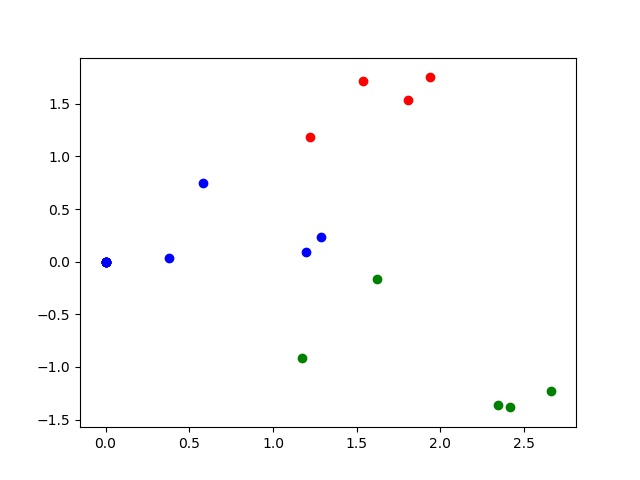
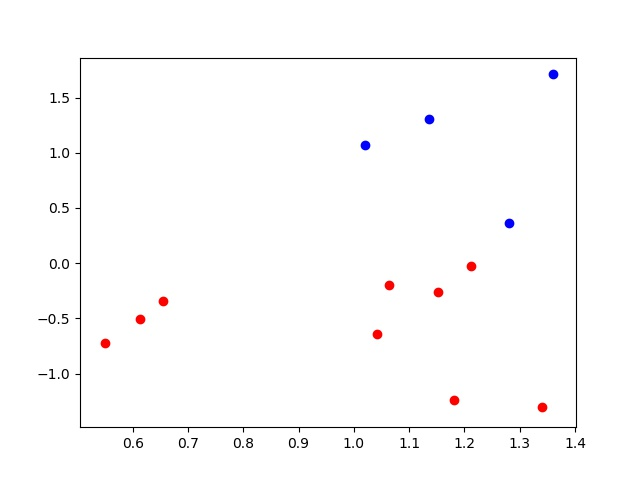
Finally Completed

diff --git a/pycoders/templates/data_analysis/user_cluster_third.html b/pycoders/templates/data_analysis/user_cluster_third.html
@@ -2,31 +2,85 @@
 {% load static %}
 <html>
 <head>
-	<title></title>
-	<link rel="stylesheet" href="https://stackpath.bootstrapcdn.com/bootstrap/4.3.1/css/bootstrap.min.css" integrity="sha384-ggOyR0iXCbMQv3Xipma34MD+dH/1fQ784/j6cY/iJTQUOhcWr7x9JvoRxT2MZw1T" crossorigin="anonymous">
-	<link rel="stylesheet" type="text/css" href="{% static 'css/mycss.css' %}">
+  <title></title>
+  <link rel="stylesheet" href="https://stackpath.bootstrapcdn.com/bootstrap/4.3.1/css/bootstrap.min.css" integrity="sha384-ggOyR0iXCbMQv3Xipma34MD+dH/1fQ784/j6cY/iJTQUOhcWr7x9JvoRxT2MZw1T" crossorigin="anonymous">
+  <link rel="stylesheet" type="text/css" href="{% static 'css/mycss.css' %}">
 
 </head>
 <body>
-	<div class="jumbotron"></div>
-	<div class ="block1">
-	<img src="{% static 'graphs/third_elbow.jpg' %}" class="graph1"><br>
-	<img src="{% static 'graphs/third_clusters.jpg' %}" class="graph1">
-	</div>
-	<div class="block2">
-		<div class="jumbotron">
-				<h1>Data Analysis</h1>
-				
-				Total number of customers : <br>
-				Suggested Number of Clusters :	<br>
-				Selected Number of Clusters : <br>
-				Results Summary : 	<br>
-				
+<div class="jumbotron">
+
+
+  <!-- <div class="notepaper"> -->
+  <!-- <figure class="quote">
+    <blockquote class="curly-quotes" cite="https://www.youtube.com/watch?v=qYLrc9hy0t0">
+      In GOD we trust,
+      All others must bring data
+    </blockquote>
+    <figcaption class="quote-by">— Jim Rohn</figcaption>
+  </figure> -->
+  <nav class="navbar navbar-expand-lg navbar-light bg-light">
+  <a class="navbar-brand" href="#">Navbar</a>
+  <button class="navbar-toggler" type="button" data-toggle="collapse" data-target="#navbarNav" aria-controls="navbarNav" aria-expanded="false" aria-label="Toggle navigation">
+    <span class="navbar-toggler-icon"></span>
+  </button>
+  <div class="collapse navbar-collapse" id="navbarNav">
+    <ul class="navbar-nav">
+      <li class="nav-item active">
+        <a class="nav-link" href="#">Home <span class="sr-only">(current)</span></a>
+      </li>
+      <li class="nav-item">
+        <a class="nav-link" href="#">Features</a>
+      </li>
+      <li class="nav-item">
+        <a class="nav-link" href="#">Pricing</a>
+      </li>
+      <li class="nav-item">
+        <a class="nav-link disabled" href="#">Disabled</a>
+      </li>
+    </ul>
+  </div>
+</nav>
+</div>
+<!-- </div> -->
+  <div >
+  <img src="{% static 'graphs/third_elbow.jpg' %}" class="graph1">
+  <img src="{% static 'graphs/third_clusters.jpg' %}" class="graph1">
+  </div>
+  <div >
+    <div class="jumbotron">
+        
+
+        <center><h1>Data Analysis</h1><br>
+
+
+        <form action="/action_page.php">
+  Enter of the no of Cluster:: <input type="number" name="fname">
+  <input type="submit" value="Redraw">
+</form><br>
+        <b>Total number of customers : 50 <br>
+        Suggested Number of Clusters : 2  <br>
+        Selected Number of Clusters : 2 <br></B>
+        <h4><br><b>Results Summary : </b>  <br></h4>
+       <b> 2 Clusters were found :</b><br><br>
+         <h4>Characterstics of cluster 1 :</h4><br>
+
+         Mean Age : 23.5 years<br>
+         Gender Ratio : 15% Males and 85% Females<br>
+         Average Salary : Rs 40000<br><br>
+
+        <h4> Characterstics of cluster 1 :</h4><br>
+
+         Mean Age : 28 years<br>
+         Gender Ratio : 45% Males and 55% Females<br>
+         Average Salary : Rs 67800<br>
 
 
 
-		</div>
-	</div>
+</center>
+
+    </div>
+  </div>
 
 
 

diff --git a/pycoders/templates/data_analysis/user_cluster.html b/pycoders/templates/data_analysis/user_cluster.html
@@ -2,26 +2,24 @@
 {% load static %}
 <html>
 <head>
-	<title></title>
-	<link rel="stylesheet" href="https://stackpath.bootstrapcdn.com/bootstrap/4.3.1/css/bootstrap.min.css" integrity="sha384-ggOyR0iXCbMQv3Xipma34MD+dH/1fQ784/j6cY/iJTQUOhcWr7x9JvoRxT2MZw1T" crossorigin="anonymous">
-	<link rel="stylesheet" type="text/css" href="{% static 'css/mycss.css' %}">
+  <title></title>
+  <link rel="stylesheet" href="https://stackpath.bootstrapcdn.com/bootstrap/4.3.1/css/bootstrap.min.css" integrity="sha384-ggOyR0iXCbMQv3Xipma34MD+dH/1fQ784/j6cY/iJTQUOhcWr7x9JvoRxT2MZw1T" crossorigin="anonymous">
+  <link rel="stylesheet" type="text/css" href="{% static 'css/mycss.css' %}">
 
 </head>
 <body>
 <div class="jumbotron">
 
 
-	<!-- <div class="notepaper"> -->
+  <!-- <div class="notepaper"> -->
   <!-- <figure class="quote">
     <blockquote class="curly-quotes" cite="https://www.youtube.com/watch?v=qYLrc9hy0t0">
-  		In GOD we trust,
-			All others must bring data
-
+      In GOD we trust,
+      All others must bring data
     </blockquote>
-
     <figcaption class="quote-by">— Jim Rohn</figcaption>
   </figure> -->
-	<nav class="navbar navbar-expand-lg navbar-light bg-light">
+  <nav class="navbar navbar-expand-lg navbar-light bg-light">
   <a class="navbar-brand" href="#">Navbar</a>
   <button class="navbar-toggler" type="button" data-toggle="collapse" data-target="#navbarNav" aria-controls="navbarNav" aria-expanded="false" aria-label="Toggle navigation">
     <span class="navbar-toggler-icon"></span>
@@ -45,29 +43,44 @@
 </nav>
 </div>
 <!-- </div> -->
-	<div >
-	<img src="{% static 'graphs/essence_elbow.jpg' %}" class="graph1">
-	<img src="{% static 'graphs/essence_clusters.jpg' %}" class="graph1">
-	</div>
-	<div >
-		<div class="jumbotron">
-				<h1>Data Analysis</h1>
+  <div >
+  <img src="{% static 'graphs/essence_elbow.jpg' %}" class="graph1">
+  <img src="{% static 'graphs/essence_clusters.jpg' %}" class="graph1">
+  </div>
+  <div >
+    <div class="jumbotron">
+        
+
+        <center><h1>Data Analysis</h1><br>
 
 
-				<form action="/action_page.php">
-  Enter of the no of Cluster:: <input type="number" name="fname"><br>
+        <form action="/action_page.php">
+  Enter of the no of Cluster:: <input type="number" name="fname">
   <input type="submit" value="Redraw">
-</form>
-				Total number of customers : <br>
-				Suggested Number of Clusters :	<br>
-				Selected Number of Clusters : <br>
-				Results Summary : 	<br>
+</form><br>
+        <b>Total number of customers : 13 <br>
+        Suggested Number of Clusters : 2  <br>
+        Selected Number of Clusters : 2 <br></B>
+        <h4><br><b>Results Summary : </b>  <br></h4>
+       <b> 2 Clusters were found :</b><br><br>
+         <h4>Characterstics of cluster 1 :</h4><br>
+
+         Mean Age : 28 years<br>
+         Gender Ratio : 65% Males and 35% Females<br>
+         Average Salary : Rs 40000<br><br>
+
+        <h4> Characterstics of cluster 1 :</h4><br>
+
+         Mean Age : 28 years<br>
+         Gender Ratio : 45% Males and 55% Females<br>
+         Average Salary : Rs 80000<br>
 
 
 
+</center>
 
-		</div>
-	</div>
+    </div>
+  </div>
 
 
 

diff --git a/pycoders/static/css/mycss.css b/pycoders/static/css/mycss.css
@@ -1,107 +1,19 @@
 .block2 {
-	float: right;
+
 	height: 400px;
 	width : 600px;
 	margin-top: 100px;
-	margin-right: 40px;
+
 
 }
 .block1 {
-	float : left;
+
 	height: 500px;
 	width : 600px;
 }
 
 .graph1 {
 	height:400px;
-	width:700px;
+	width:600px;
 	margin: 15px;
-}
-
-.notepaper {
-  position: relative;
-  margin: 20px auto;
-  padding: 29px 20px 20px 45px;
-  width: 280px;
-  line-height: 30px;
-  color: #6a5f49;
-  text-shadow: 0 1px 1px white;
-  background-color: #f2f6c1;
-  background-image: -webkit-radial-gradient(center, cover, rgba(255, 255, 255, 0.7) 0%, rgba(255, 255, 255, 0.1) 90%), -webkit-repeating-linear-gradient(top, transparent 0%, transparent 29px, rgba(239, 207, 173, 0.7) 29px, rgba(239, 207, 173, 0.7) 30px);
-  background-image: -moz-radial-gradient(center, cover, rgba(255, 255, 255, 0.7) 0%, rgba(255, 255, 255, 0.1) 90%), -moz-repeating-linear-gradient(top, transparent 0%, transparent 29px, rgba(239, 207, 173, 0.7) 29px, rgba(239, 207, 173, 0.7) 30px);
-  background-image: -o-radial-gradient(center, cover, rgba(255, 255, 255, 0.7) 0%, rgba(255, 255, 255, 0.1) 90%), -o-repeating-linear-gradient(top, transparent 0%, transparent 29px, rgba(239, 207, 173, 0.7) 29px, rgba(239, 207, 173, 0.7) 30px);
-  border: 1px solid #c3baaa;
-  border-color: rgba(195, 186, 170, 0.9);
-  -webkit-box-sizing: border-box;
-  -moz-box-sizing: border-box;
-  box-sizing: border-box;
-  -webkit-box-shadow: inset 0 1px rgba(255, 255, 255, 0.5), inset 0 0 5px #d8e071, 0 0 1px rgba(0, 0, 0, 0.1), 0 2px rgba(0, 0, 0, 0.02);
-  box-shadow: inset 0 1px rgba(255, 255, 255, 0.5), inset 0 0 5px #d8e071, 0 0 1px rgba(0, 0, 0, 0.1), 0 2px rgba(0, 0, 0, 0.02);
-}
-
-.notepaper:before, .notepaper:after {
-  content: '';
-  position: absolute;
-  top: 0;
-  bottom: 0;
-}
-
-.notepaper:before {
-  left: 28px;
-  width: 2px;
-  border: solid #efcfad;
-  border-color: rgba(239, 207, 173, 0.9);
-  border-width: 0 1px;
-}
-
-.notepaper:after {
-  z-index: -1;
-  left: 0;
-  right: 0;
-  background: rgba(242, 246, 193, 0.9);
-  border: 1px solid rgba(170, 157, 134, 0.7);
-  -webkit-transform: rotate(2deg);
-  -moz-transform: rotate(2deg);
-  -ms-transform: rotate(2deg);
-  -o-transform: rotate(2deg);
-  transform: rotate(2deg);
-}
-
-.quote {
-  font-family: Georgia, serif;
-  font-size: 14px;
-}
-
-.curly-quotes:before, .curly-quotes:after {
-  display: inline-block;
-  vertical-align: top;
-  height: 30px;
-  line-height: 48px;
-  font-size: 50px;
-  opacity: .2;
-}
-
-.curly-quotes:before {
-  content: '\201C';
-  margin-right: 4px;
-  margin-left: -8px;
-}
-
-.curly-quotes:after {
-  content: '\201D';
-  margin-left: 4px;
-  margin-right: -8px;
-}
-
-.quote-by {
-  display: block;
-  padding-right: 10px;
-  text-align: right;
-  font-size: 13px;
-  font-style: italic;
-  color: #84775c;
-}
-
-.lt-ie8 .notepaper {
-  padding: 15px 25px;
 }

diff --git a/pycoders/templates/data_analysis/time_revenue.html b/pycoders/templates/data_analysis/time_revenue.html
@@ -5,7 +5,7 @@
 	<title></title>
 </head>
 <body>
-	<img src="{% static 'graphs/essence_time.jpg' %}" alt="">
+	<img src="{% static 'Revenue_graph.jpg' %}" alt="">
 
 
 
